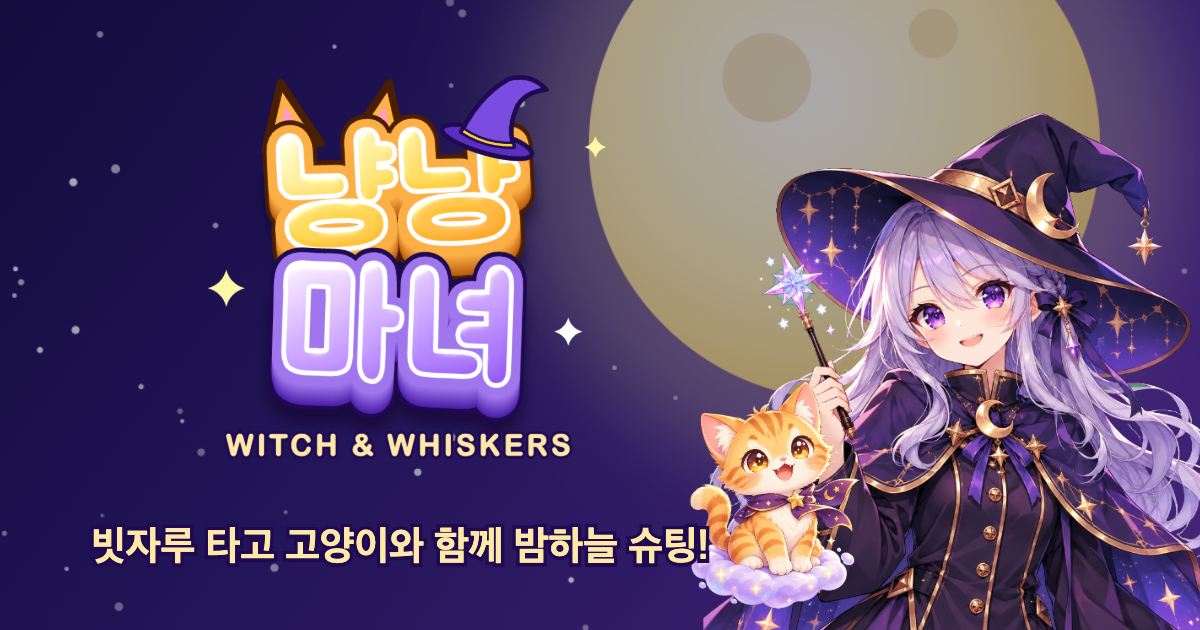
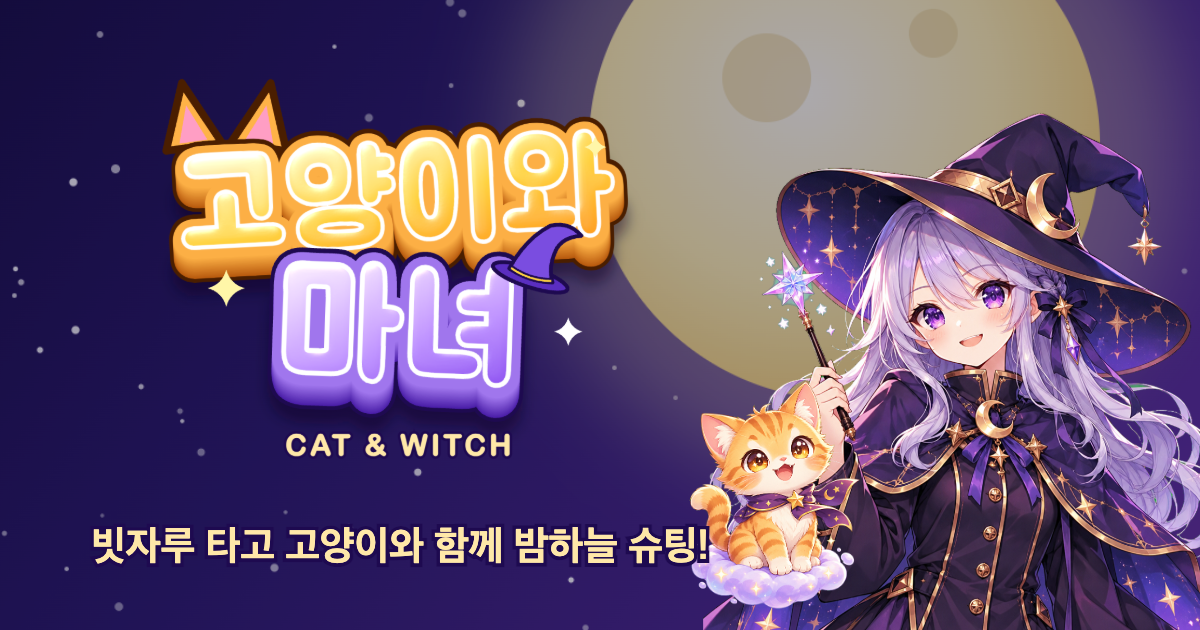
Update Witch & Whiskers

diff --git a/index.html b/index.html
@@ -6,11 +6,11 @@
 <meta name="theme-color" content="#1A1240">
 <meta name="apple-mobile-web-app-capable" content="yes">
 <meta name="mobile-web-app-capable" content="yes">
-<meta name="apple-mobile-web-app-title" content="냥냥 마녀">
+<meta name="apple-mobile-web-app-title" content="고양이와 마녀">
 <meta name="apple-mobile-web-app-status-bar-style" content="black-translucent">
-<title>냥냥 마녀 - Witch &amp; Whiskers</title>
+<title>고양이와 마녀 - Cat &amp; Witch</title>
 <meta name="description" content="빗자루를 타고 고양이들과 밤하늘을 나는 마녀 슈팅 게임">
-<meta property="og:title" content="냥냥 마녀 - Witch &amp; Whiskers">
+<meta property="og:title" content="고양이와 마녀 - Cat &amp; Witch">
 <meta property="og:description" content="빗자루를 타고 고양이들과 밤하늘을 나는 마녀 슈팅 게임">
 <meta property="og:image" content="icons/og_image.png">
 <link rel="icon" href="icons/favicon_32.png" sizes="32x32">
@@ -29,7 +29,7 @@
 </style>
 </head>
 <body>
-<div id="boot">냥냥 마녀</div>
+<div id="boot">고양이와 마녀</div>
 <div id="game"></div>
 <div id="rotate"><div><b>📱</b>화면을 세로로 돌려 주세요<br><small>Please rotate to portrait</small></div></div>
 <script src="lib/phaser.min.js"></script>

diff --git a/src/scenes/Boot.js b/src/scenes/Boot.js
@@ -8,7 +8,7 @@ export class BootScene extends Phaser.Scene {
   preload() {
     const bar = this.add.rectangle(W / 2 - 300, H / 2 + 120, 4, 26, 0xFFD95A).setOrigin(0, 0.5);
     this.add.rectangle(W / 2, H / 2 + 120, 608, 34).setStrokeStyle(4, 0xB89AFF);
-    this.add.text(W / 2, H / 2, '냥냥 마녀', { fontFamily: 'Jua', fontSize: '96px', color: '#FFE8A8' }).setOrigin(0.5);
+    this.add.text(W / 2, H / 2, '고양이와 마녀', { fontFamily: 'Jua', fontSize: '96px', color: '#FFE8A8' }).setOrigin(0.5);
     this.load.on('progress', v => { bar.width = 600 * v; });
     this.load.json('manifest', 'assets/manifest.json');
     this.load.once('filecomplete-json-manifest', (k, t, m) => {

diff --git a/src/scenes/Title.js b/src/scenes/Title.js
@@ -28,7 +28,7 @@ export class TitleScene extends Phaser.Scene {
     const tap = txt(this, W / 2, H * 0.92, '화면을 터치하세요', 60, '#FFE8A8');
     this.tweens.add({ targets: tap, alpha: 0.25, duration: 800, yoyo: true, repeat: -1 });
     txt(this, W - 30, H - 40, `v${VERSION}`, 30, '#B8A6F0', { ox: 1 });
-    txt(this, 30, H - 40, '© Witch & Whiskers', 30, '#B8A6F0', { ox: 0 });
+    txt(this, 30, H - 40, '© Cat & Witch', 30, '#B8A6F0', { ox: 0 });
 
     audio.music('bgm_title', this);
     audio.prefetch(this, ['bgm_lobby', 'bgm_run', 'bgm_boss']);

diff --git a/src/config.js b/src/config.js
@@ -1,5 +1,5 @@
 // 화면 크기: 가로 1080 고정, 세로는 기기 비율에 맞춰 늘어남 (최소 1920)
-export const VERSION = '1.5.0';
+export const VERSION = '1.5.1';
 export const W = 1080;
 export const BASE_H = 1920;
 export let H = BASE_H;
